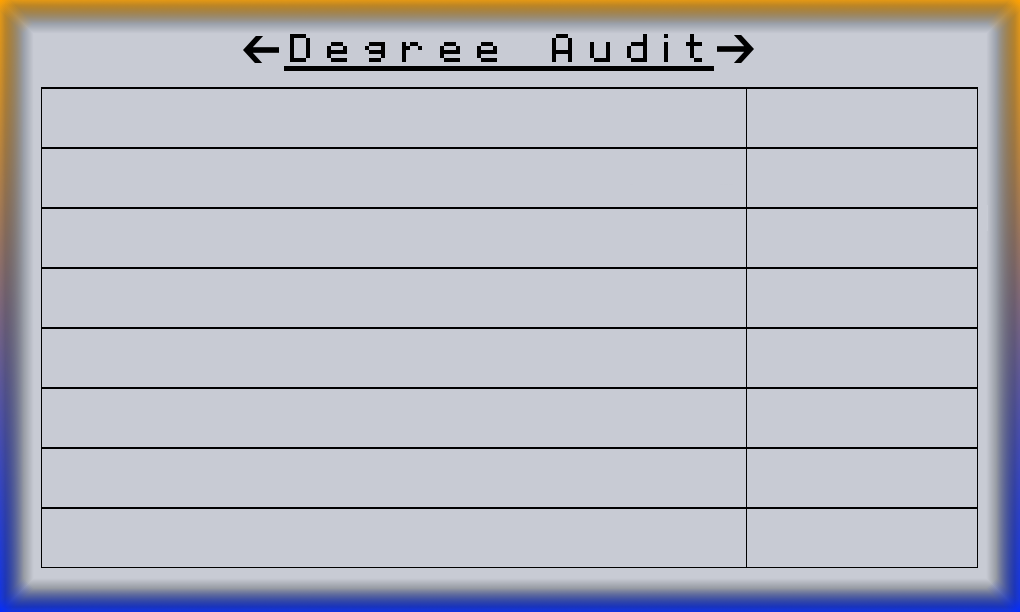
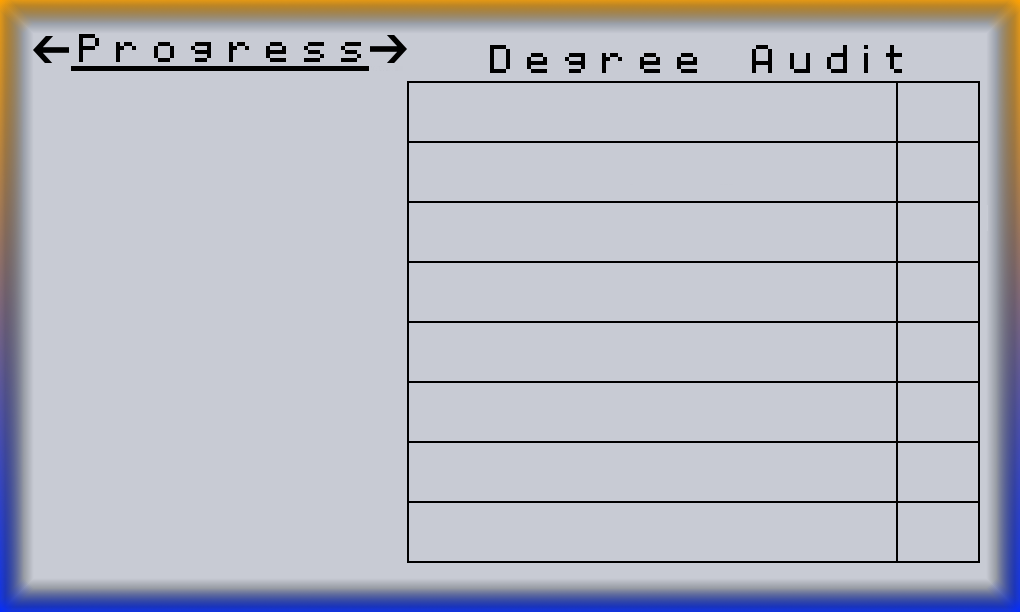
This changes the heroScreen degree audit page to add a progress section allowing the user to see their gatorbucks, name, and sprite sheet.

diff --git a/core/src/com/superschmalgames/Screens/HeroScreen.java b/core/src/com/superschmalgames/Screens/HeroScreen.java
@@ -164,18 +164,45 @@ public class HeroScreen implements Screen {
         if("Degree Audit".equals(heroPanel))
         {
             MainClass.batch.draw(Utils.hero_degree_tex, 0, 0);
-            Utils.font.draw(MainClass.batch,"Programming I: Dobbins", 100,505);
-            Utils.font.draw(MainClass.batch,"Calculus II: Chui", 100,440);
-            Utils.font.draw(MainClass.batch,"Programming II: Horton", 100, 385);
-            Utils.font.draw(MainClass.batch,"Circuits I: Srivastava", 100,325);
-            Utils.font.draw(MainClass.batch,"Signals and Systems: Wong", 100,265);
-            Utils.font.draw(MainClass.batch,"Digital Logic: Gugel", 100, 205);
-            Utils.font.draw(MainClass.batch,"Operating Systems: Small", 100, 140);
-            Utils.font.draw(MainClass.batch,"Senior Design: Schmalz", 100, 80);
+            Utils.font.draw(MainClass.batch,"Name:\n"+MainClass.hero.name, 50 ,505);
+            Utils.font.draw(MainClass.batch,"GatorBucks:\n"+MainClass.hero.gatorBucks, 50 ,385);
+            if(MainClass.hero.outfitNum == 7)
+            {
+                Utils.av1_sprite.setScale(1.5f);
+                Utils.av1_sprite.draw(MainClass.batch);
+                Utils.av4_sprite.setPosition(150,200);
+            }
+            else if(MainClass.hero.outfitNum == 11)
+            {
+                Utils.av2_sprite.setScale(1.5f);
+                Utils.av2_sprite.draw(MainClass.batch);
+                Utils.av4_sprite.setPosition(150,200);
+            }
+            else if(MainClass.hero.outfitNum == 10)
+            {
+                Utils.av3_sprite.setScale(1.5f);
+                Utils.av3_sprite.draw(MainClass.batch);
+                Utils.av4_sprite.setPosition(150,200);
+            }
+            else if(MainClass.hero.outfitNum == 9)
+            {
+                Utils.av4_sprite.setScale(2.5f);
+                Utils.av4_sprite.draw(MainClass.batch);
+                Utils.av4_sprite.setPosition(150,200);
+            }
+
+            Utils.font.draw(MainClass.batch,"Programming I: Dobbins", 420,505);
+            Utils.font.draw(MainClass.batch,"Calculus II: Chui", 420,440);
+            Utils.font.draw(MainClass.batch,"Programming II: Horton", 420, 385);
+            Utils.font.draw(MainClass.batch,"Circuits I: Srivastava", 420,325);
+            Utils.font.draw(MainClass.batch,"Sigs & Systems: Wong", 420,265);
+            Utils.font.draw(MainClass.batch,"Digital Logic: Gugel", 420, 205);
+            Utils.font.draw(MainClass.batch,"Operating Sys: Small", 420, 140);
+            Utils.font.draw(MainClass.batch,"Senior Design: Schmalz", 420, 80);
 
             for(int i=0; i<MainClass.hero.semester; i++)
             {
-                MainClass.batch.draw(Utils.checkbox2_tex, 845, 475-60*i, 50, 50);
+                MainClass.batch.draw(Utils.checkbox2_tex, 905, 475-60*i, 50, 50);
             }
         }
 

diff --git a/core/src/com/superschmalgames/Utilities/Utils.java b/core/src/com/superschmalgames/Utilities/Utils.java
@@ -597,6 +597,16 @@ public class Utils {
     public static final Texture white_sq_tex = new Texture("visuals/Menus/white_sq.png");
     public static final Texture hero_degree_tex = new Texture("visuals/Menus/hero_degree_menu.png");
 
+    public static final Texture av1_tex = new Texture("visuals/sprite_sheets/sprite_walk_d7.png");
+    public static final Texture av2_tex = new Texture("visuals/sprite_sheets/sprite_walk_d11.png");
+    public static final Texture av3_tex = new Texture("visuals/sprite_sheets/sprite_walk_d10.png");
+    public static final Texture av4_tex = new Texture("visuals/sprite_sheets/sprite_walk_d9.png");
+
+    public static final Sprite av1_sprite = new Sprite(av1_tex);
+    public static final Sprite av2_sprite = new Sprite(av2_tex);
+    public static final Sprite av3_sprite = new Sprite(av3_tex);
+    public static final Sprite av4_sprite = new Sprite(av4_tex);
+
     ///////////////////////////////////////////////////////////////////////////////////////////////////////////////////////
 
     ///////////////////////////////////////CHARACTER DIALOGUE/////////////////////////////////////////////////////////////
